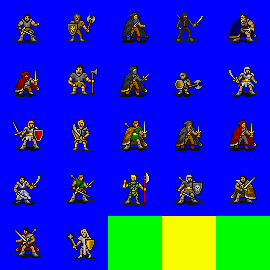
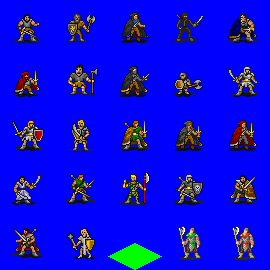
Balanced some monsters

Changed region(s): [[0.3852, 0.8, 1.0, 1.0]]

diff --git a/monsters/people.py b/monsters/people.py
@@ -12,6 +12,7 @@ import aibrain
 import random
 import animals
 import undead
+import enchantments
 
 #  *******************************
 #  ***   ENCOUNTER  LEVEL  1   ***
@@ -231,7 +232,7 @@ class Necromancer( base.Monster ):
     TREASURE = ( items.scrolls.Rank2Scroll, items.scrolls.Rank3Scroll )
     def init_monster( self ):
         self.levels.append( base.Spellcaster( 5, self ) )
-        if random.randint(1,10) == 1:
+        if random.randint(1,5) == 1:
             self.contents.append( random.choice( self.TREASURE )() )
 
 class Warrior( base.Monster ):
@@ -280,7 +281,7 @@ class Priest( base.Monster ):
     TREASURE = ( items.scrolls.Rank2Scroll, items.scrolls.Rank3Scroll )
     def init_monster( self ):
         self.levels.append( base.Humanoid( 6, self ) )
-        if random.randint(1,10) == 1:
+        if random.randint(1,5) == 1:
             self.contents.append( random.choice( self.TREASURE )() )
 
 class Mercenary( base.Monster ):
@@ -358,7 +359,7 @@ class Conjuoror( base.Monster ):
     TREASURE = ( items.scrolls.Rank3Scroll, items.scrolls.Rank4Scroll )
     def init_monster( self ):
         self.levels.append( base.Spellcaster( 7, self ) )
-        if random.randint(1,10) == 1:
+        if random.randint(1,5) == 1:
             self.contents.append( random.choice( self.TREASURE )() )
 
 
@@ -403,7 +404,43 @@ class Executioner( base.Monster ):
 #  ***   ENCOUNTER  LEVEL  10   ***
 #  ********************************
 
-# Unspecified other Priest type
+class Healer( base.Monster ):
+    name = "Healer"
+    statline = { stats.STRENGTH: 12, stats.TOUGHNESS: 16, stats.REFLEXES: 12, \
+        stats.INTELLIGENCE: 14, stats.PIETY: 18, stats.CHARISMA: 18 }
+    SPRITENAME = "monster_spellcasters.png"
+    FRAME = 16
+    TEMPLATES = ()
+    MOVE_POINTS = 10
+    GP_VALUE = 50
+    HABITAT = ( context.HAB_EVERY, context.HAB_BUILDING, context.SET_EVERY,
+     context.DES_CIVILIZED, context.DES_SOLAR, context.DES_WATER, context.MTY_LEADER,
+     context.MTY_HUMANOID, context.MTY_PRIEST )
+    ENC_LEVEL = 10
+    COMBAT_AI = aibrain.BasicTechnicalAI()
+    COMPANIONS = (NoviceWarrior,NovicePriest,Warrior)
+    ATTACK = items.Attack( (3,6,0), element = stats.RESIST_SOLAR,
+        hit_anim=animobs.YellowExplosion )
+    TECHNIQUES = ( spells.priestspells.SMITE, spells.solarspells.MASS_CURE,
+        spells.solarspells.MAXIMUM_CURE, invocations.MPInvocation( "Repent",
+            effects.TargetIsAlly( on_true = (
+                effects.Enchant( enchantments.BlessingEn, anim=animobs.GreenSparkle ),
+                effects.TargetIsDamaged( on_true= (
+                    effects.HealthRestore( dice=(3,12,12) ),
+                ))
+            ), on_false=(
+                effects.TargetIsEnemy( on_true = (
+                    effects.HealthDamage( (3,12,0), stat_bonus=stats.CHARISMA, element=stats.RESIST_WATER, anim=animobs.Bubbles ),
+                )),
+            )), shot_anim=animobs.BlueComet, com_tar=targetarea.Blast(radius=3),
+            ai_tar=invocations.vs_enemy, mp_cost=12 )
+        )
+    TREASURE = ( items.potions.PotionOfHealing, items.scrolls.Rank4Scroll, items.scrolls.Rank5Scroll )
+    def init_monster( self ):
+        self.levels.append( base.Spellcaster( 6, self ) )
+        self.levels.append( base.Defender( 4, self ) )
+        if random.randint(1,3) == 1:
+            self.contents.append( random.choice( self.TREASURE )() )
 
 #  ********************************
 #  ***   ENCOUNTER  LEVEL  11   ***

diff --git a/monsters/goblins.py b/monsters/goblins.py
@@ -229,7 +229,7 @@ class GoblinMage( base.Monster ):
 
     def init_monster( self ):
         self.levels.append( base.Spellcaster( 8, self ) )
-        if random.randint(1,10) == 1:
+        if random.randint(1,5) == 1:
             self.contents.append( items.scrolls.Rank3Scroll() )
 
 class GoblinElite( base.Monster ):
@@ -450,7 +450,7 @@ class HobgoblinMage( base.Monster ):
     TEMPLATES = ()
     MOVE_POINTS = 10
     VOICE = dialogue.voice.ORCISH
-    GP_VALUE = 30
+    GP_VALUE = 20
     HABITAT = ( context.HAB_EVERY, context.HAB_CAVE, context.SET_EVERY,
      context.DES_LUNAR,
      context.MTY_HUMANOID, context.MTY_MAGE, context.GEN_GOBLIN )
@@ -465,7 +465,7 @@ class HobgoblinMage( base.Monster ):
 
     def init_monster( self ):
         self.levels.append( base.Spellcaster( 5, self ) )
-        if random.randint(1,20) == 1:
+        if random.randint(1,5) == 1:
             self.contents.append( items.scrolls.Rank2Scroll() )
 
 
@@ -478,7 +478,7 @@ class HobgoblinPriest( base.Monster ):
     TEMPLATES = ()
     MOVE_POINTS = 10
     VOICE = dialogue.voice.ORCISH
-    GP_VALUE = 36
+    GP_VALUE = 30
     HABITAT = ( context.HAB_EVERY, context.HAB_CAVE, context.SET_EVERY,
      context.DES_LUNAR, context.MTY_LEADER,
      context.MTY_HUMANOID, context.MTY_PRIEST, context.GEN_GOBLIN )
@@ -493,7 +493,7 @@ class HobgoblinPriest( base.Monster ):
 
     def init_monster( self ):
         self.levels.append( base.Spellcaster( 6, self ) )
-        if random.randint(1,20) == 1:
+        if random.randint(1,10) == 1:
             self.contents.append( items.scrolls.Rank3Scroll() )
 
 class HobgoblinWarlord( base.Monster ):
@@ -518,7 +518,8 @@ class HobgoblinWarlord( base.Monster ):
     ATTACK = items.Attack( (2,8,1), element = stats.RESIST_SLASHING )
 
     def init_monster( self ):
-        self.levels.append( base.Humanoid( 8, self ) )
+        self.levels.append( base.Terror( 4, self ) )
+        self.levels.append( base.Humanoid( 4, self ) )
 
 
 #  ****************

diff --git a/cfgtest.py b/cfgtest.py
@@ -1,2 +1,25 @@
 import context
 
+    # Create the outline of a well-formed module, with these characteristics:
+    # - Has enough resources to complete (temple, shops, encounters, treasure)
+    # - Directly connected areas have close difficulty ratings
+    # - Areas with large difficulty jumps may be connected by a roadblock
+
+    # Generate plot of the form [enemy] wants [goal] because [motivation]
+    # Moving backwards, construct the adventure plan. Each step in the plan
+    # will be a chapter, incorporating a goal room.
+    #
+    # With chapter list, generate connections, making sure that each chapter
+    # has enough resources to be completed.
+    #
+    # Make sure that each continuous area has enough resources to be completed.
+
+    # Enemy = Monster faction desc
+    # Goal = Conquer the world, Destroy the world
+    # Motivation = Their deity commands it, To restore former order, For the lulz
+
+    # Summon Darkgod -> Sets goal to "summon patron"
+    # Retrieve Artifact -> Sets goal to "get artifact"
+    # Locate Artifact -> Sets goal to "loacte artifact"
+
+

diff --git a/items/enhancers.py b/items/enhancers.py
@@ -70,7 +70,7 @@ class ElvenWeapon( Enhancer ):
     NAMEPAT = "Elven {0}"
     DESCPAT = "{0} It has been balanced for parrying, providing +5% to defense."
     PLUSRANK = 1
-    AFFECTS = (SWORD,DAGGER,STAFF)
+    AFFECTS = (SWORD,DAGGER,STAFF,LANCE)
     BONUSES = stats.StatMod({ stats.PHYSICAL_DEFENSE: 5, stats.NATURAL_DEFENSE: 5 })
 
 class ElvenBow( Enhancer ):
@@ -120,6 +120,7 @@ class DreadWeapon( Enhancer ):
     DESCPAT = "{0} Targets struck by this weapon may find themselves cursed."
     PLUSRANK = 3
     AFFECTS = (SWORD, AXE, MACE, DAGGER, STAFF, POLEARM, FARMTOOL, BOW, SLING)
+    BONUSES = stats.StatMod({ stats.PHYSICAL_ATTACK: 5 })
     ATTACK_ON_HIT = effects.Enchant( enchantments.CurseEn, anim=animobs.PurpleSparkle )
 
 class Smasher( Enhancer ):

diff --git a/monsters/dragons.py b/monsters/dragons.py
@@ -165,8 +165,8 @@ class CaveDragon( base.Monster ):
     ENC_LEVEL = 8
     LONER = True
     COMPANIONS = ( YoungCaveDragon, )
-    ATTACK = items.Attack( (3,6,0), element = stats.RESIST_SLASHING, extra_effect=
-        effects.SavingThrow( roll_skill=stats.RESIST_POISON, roll_stat=stats.TOUGHNESS, roll_modifier=25, on_failure = (
+    ATTACK = items.Attack( (2,6,0), element = stats.RESIST_SLASHING, extra_effect=
+        effects.SavingThrow( roll_skill=stats.RESIST_POISON, roll_stat=stats.TOUGHNESS, roll_modifier=50, on_failure = (
             effects.Enchant( enchantments.PoisonClassic, anim=animobs.DeathSparkle )
         ,)) )
     TECHNIQUES = ( invocations.MPInvocation( "Toxic Breath",

diff --git a/spells/waterspells.py b/spells/waterspells.py
@@ -11,7 +11,7 @@ import context
 
 FREEZE_FOE = Spell( "Freeze Foe",
     "A single target will be frozen in its tracks, unable to act for 1 to 3 rounds.",
-    effects.OpposedRoll( on_success = (
+    effects.OpposedRoll( att_modifier=20, on_success = (
         effects.Paralyze( max_duration = 3 )
     ,), on_failure =(
         effects.NoEffect( anim=animobs.SmallBoom )
